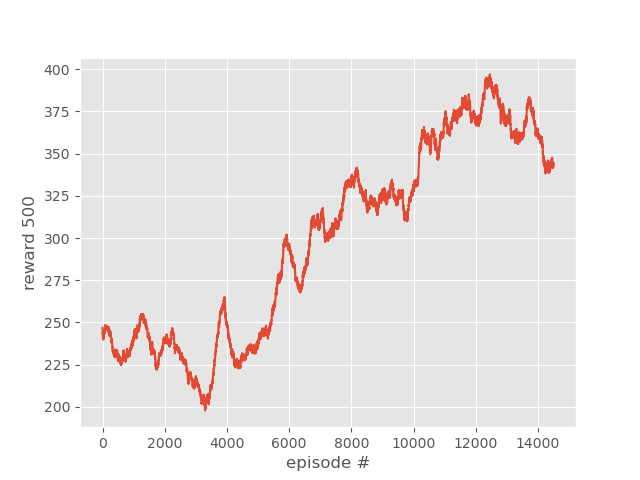
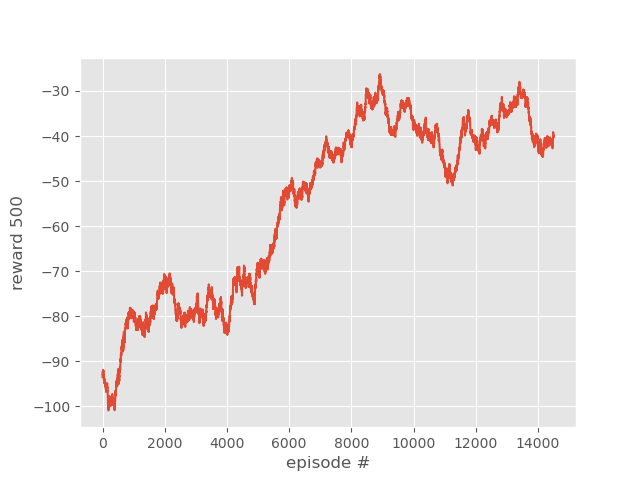
update

diff --git a/_posts/2020-10-18-[q_learning]Number game.md b/_posts/2020-10-18-[q_learning]Number game.md
@@ -1,5 +1,5 @@
 ---
-title:  "[q_learning]Number game"
+title:  "[q_learning]Number Game"
 excerpt: "diary"
 
 categories:
@@ -20,9 +20,9 @@ I've set values like below.
 
 
 ``` python
-EPISODES = 15000        MOVE_PENALTY = 1        ANSWER_REWARD = 50      HALF_REWARD = 20
-epsilon = 0.9           EPS_DECAY = 0.9998      SHOW_EVERY = 500        MIN_VALUES = -300
-LEARNING_RATE = 0.001   DISCOUNT = 0.95         STEP = 600
+EPISODES = 15000        MOVE_PENALTY = -1        ANSWER_REWARD = 50      HALF_REWARD = 20
+epsilon = 0.9           EPS_DECAY = 0.99998      SHOW_EVERY = 500         STEP = 200
+LEARNING_RATE = 0.001   DISCOUNT = 0.95         
 ```
 
 It basically guess the numbers(2 digits) that are randomly set between 0 to 9. <br>
